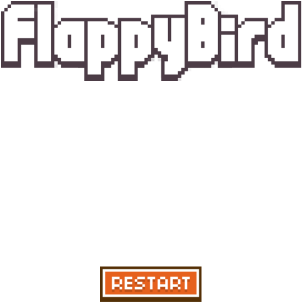
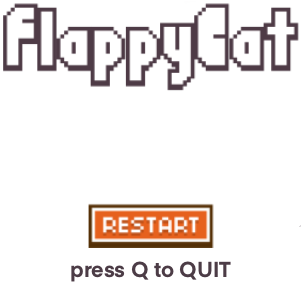
asdfads

Changed region(s): [[0.0, 0.0, 1.0, 0.3278], [0.2682, 0.6556, 0.7152, 0.8344], [0.2086, 0.8642, 0.7748, 1.0]]

diff --git a/images/overworld3.py b/images/overworld3.py
@@ -49,137 +49,6 @@ cat = pygame.image.load('cat_sample.png')
 cat = pygame.transform.scale(cat, (400, 300))
 x, y = 200, 200
 
-# game 1
-def game1():
-    clock = pygame.time.Clock()
-
-    # text
-    pygame.display.set_caption('Cat Isle')
-    text = BASICFONT.render('SnakeCat', True, 'brown')
-    textRect = text.get_rect()
-    textRect.center = (1470 // 2, 850 // 2)
-
-    # background
-    bg = pygame.image.load("background.png")
-    bg = pygame.transform.scale(bg,(WIDTH, HEIGHT))
-
-    # snake
-    snake_block = 20
-    snake_speed = 20
-
-    game_over = False
-
-    def your_score(score):
-        pass
-
-    def our_snake(snake_block, snake_list):
-        for x in snake_list:
-            pygame.draw.rect(window, "brown", [x[0], x[1], snake_block, snake_block])
-    
-    # message function
-    def message(msg, color):
-        msg = BASICFONT.render(msg, True, color)
-        window.blit(msg, [WIDTH / 2, 100])
-
-    def gameLoop():
-        game_over = False
-        game_close = False
-
-        foodx = round(random.randrange(0, WIDTH - snake_block) / 10.0) * 10.0
-        foody = round(random.randrange(0, HEIGHT - snake_block) / 10.0) * 10.0
-
-        x1 = WIDTH / 2
-        y1 = HEIGHT / 2
-
-        x1_change = 0
-        y1_change = 0
-
-        snake_list = []
-        length_of_snake = 1
-
-        while not game_over:
-
-            while game_close == True:
-                window.blit(bg, (0,0))
-                message("You Lost! Press Q-Quit or C-Play Again", "brown")
-                pygame.display.update()
-
-                for event in pygame.event.get():
-                    if event.type == pygame.KEYDOWN:
-                        if event.key == pygame.K_q:
-                            SCREEN = "main"
-                            #game_over = True
-                            #game_close = False
-                        if event.key == pygame.K_c:
-                            gameLoop()
-
-            for event in pygame.event.get():
-                if event.type == pygame.QUIT:
-                    game_over = True
-                if event.type == pygame.KEYDOWN:
-                    if event.key == pygame.K_LEFT:
-                        x1_change = -snake_block
-                        y1_change = 0
-                    elif event.key == pygame.K_RIGHT:
-                        x1_change = snake_block
-                        y1_change = 0
-                    elif event.key == pygame.K_UP:
-                        y1_change = -snake_block
-                        x1_change = 0
-                    elif event.key == pygame.K_DOWN:
-                        y1_change = snake_block
-                        x1_change = 0
-            
-            if x1 >= WIDTH or x1 < 0 or y1 >= HEIGHT or y1 < 0:
-                game_close = True
-            x1 += x1_change
-            y1 += y1_change
-            window.blit(bg, (0,0))
-            window.blit(text, textRect)
-            pygame.draw.rect(window, 'pink', [foodx, foody, snake_block, snake_block])
-
-            snake_head = []
-            snake_head.append(x1)
-            snake_head.append(y1)
-            snake_list.append(snake_head)
-            if len(snake_list) > length_of_snake:
-                del snake_list[0]
- 
-            for x in snake_list[:-1]:
-                if x == snake_head:
-                    game_close = True
-    
-            our_snake(snake_block, snake_list)
-
-            pygame.display.update()
-
-            if (x1 + 10) > foodx and foodx > (x1 - 10) and (y1 + 10) > foody and foody > (y1 - 10):
-                foodx = round(random.randrange(0, WIDTH - snake_block) / 10.0) * 10.0
-                foody = round(random.randrange(0, HEIGHT - snake_block) / 10.0) * 10.0
-                length_of_snake += 1
-            clock.tick(snake_speed)
-        
-            while game_close == True:
-                window.blit(bg, (0,0))
-                message("You Lost! Press Q-Quit to go back to main screen or C-Play Again", "brown")
-                pygame.display.update()
-
-                for event in pygame.event.get():
-                    if event.type == pygame.KEYDOWN:
-                        if event.key == pygame.K_q:
-                            game_over = True
-                            game_close = False
-                        if event.key == pygame.K_c:
-                            gameLoop()
-
-        # game over
-        message('You Lost... smh', 'brown')
-        pygame.display.update()
-        time.sleep(2)
-        game_over = True
-
-    gameLoop()
-
 loop = True
 while loop:
     # switch screens

diff --git a/images/screen_game3.py b/images/screen_game3.py
@@ -226,7 +226,7 @@ def game3():
     birdGroup.add(bird)  
     
     # creating the restart button instance  
-    restartButton = Button(150, 100, button)  
+    restartButton = Button(590, 100, button)  
     
     # declaring a variable and initializing its value with True  
     game_run = True  
@@ -268,7 +268,7 @@ def game3():
                     passPipe = False  
     
         # calling the drawText() function to display the calculated score on the screen  
-        drawText(str(playerScore), fontStyle, black, int(SCREEN_WIDTH / 2), 15)  
+        drawText(str(playerScore), fontStyle, black, int(725), 15)  
     
         # looking for collision  
         if pygame.sprite.groupcollide(birdGroup, pipeGroup, False, False) or bird.rect.top < 0:  
@@ -305,6 +305,11 @@ def game3():
             if restartButton.draw() == True:  
                 gameOver = False  
                 playerScore = resetGame()  
+            '''
+            keys = pygame.key.get_pressed()
+            if keys[pygame.K_q]:
+                SCREEN = "main"
+            '''
     
         # using the for loop to iterate through the events of the game  
         for event in pygame.event.get():  
